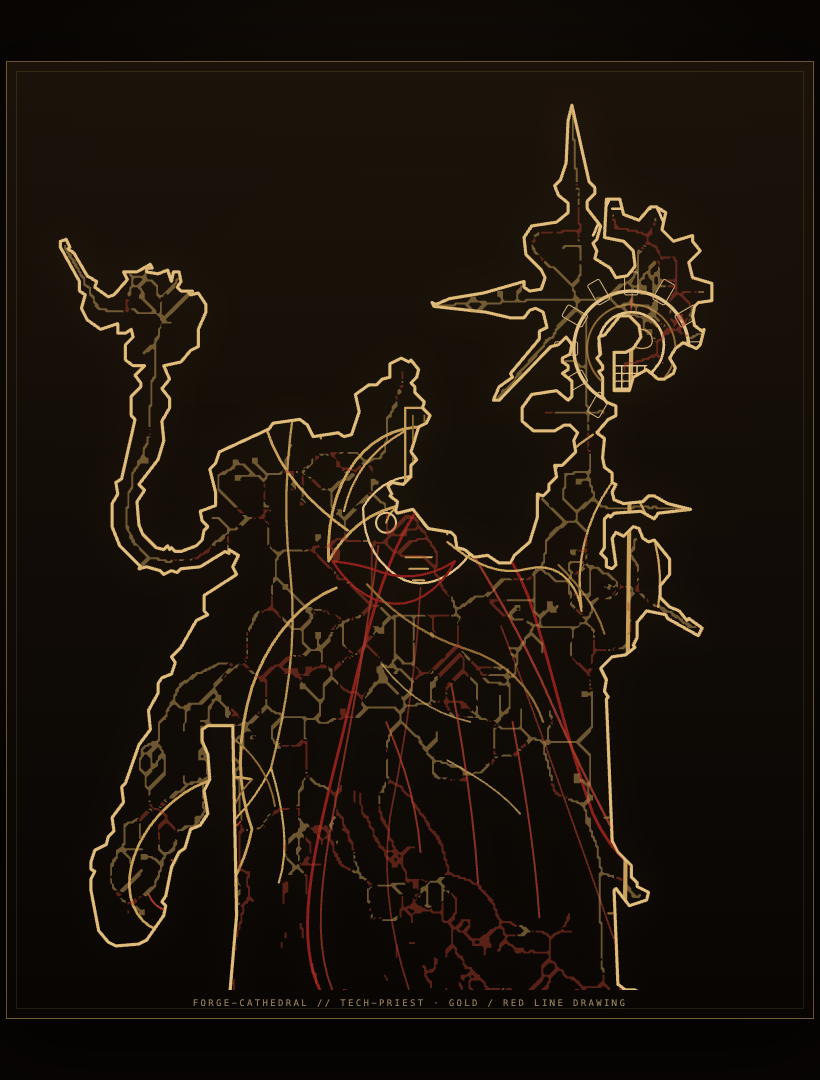
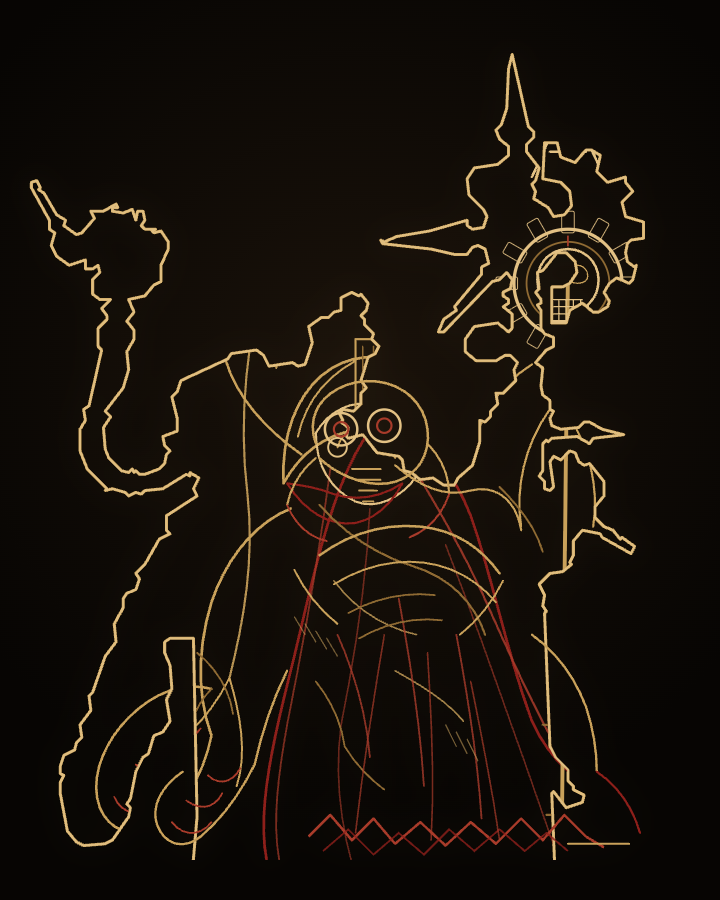
art: tech-priest as pure gold/red line work, no base (v0.7.4)

diff --git a/README.md b/README.md
@@ -1,6 +1,6 @@
-# dsh-theme-admech — 机械神教 · 铸炉圣殿（纯 A / v0.7.3）
+# dsh-theme-admech — 机械神教 · 铸炉圣殿（纯 A / v0.7.4）
 
-> **状态：v0.7.3。macOS（DSH 0.2.1-rc.2）与 Windows 11 真机均完成渲染验收；v0.7.3 机械神甫素材改为纯金色/红色线条重绘。**
+> **状态：v0.7.4。macOS（DSH 0.2.1-rc.2）与 Windows 11 真机均完成渲染验收；v0.7.4 机械神甫素材只保留金色/红色线条，不含任何填色或基座。**
 > Windows 适配细节见文末「Windows 适配（v0.7.0 · 实测）」，其中包含实测过的安装流程、失败模式与可复现的渲染审计脚本。
 > 尚未安装到你的日常桌面 profile（桌面 profile 由 Electron 独占写入，需你在「插件」页点一次安装）。
 > 图标标准 = 你提供的齿轮-骷髅：只改颜色、等比缩放，不重绘。
@@ -280,14 +280,14 @@ DSH Desktop 的“查询用量 / 充值”会挂载一个原生 Platform WebCont
 
 #
 
-## v0.7.3：机械神甫 SVG 素材 · 金色/红色线条重绘（独立，不改背景）
+## v0.7.4：机械神甫 SVG 素材 · 纯金色/红色线条（无填色、无基座）
 
 ![tech priest vector](shots/tech-priest-preview.png)
 
-- 不沿用旧图片的填色/描摹，改为**纯线条重绘**：金色外轮廓与机械线条、红色长袍与内褶线条；
-- 无照片填色、无灰度/白色块，透明底；已**去除底部模型基座**；
-- 文件：assets/tech-priest.svg（约 62KB，381×470 viewBox，可无损放大）；
-- 保留兜帽、机械臂、伺服骷髅、齿轮-骷髅权杖、长袍走势与线稿蚀刻纹理；
+- 最终结果**只包含金色/红色线条**：所有元素 fill="none"，无照片填色、无白色/灰色块、无剪影填充；
+- 无位图内嵌、无旧图描摹；底部金色底盘/基座完全移除；
+- 文件：assets/tech-priest.svg（约 21KB，381×455 viewBox，透明底，可无损放大）；
+- 保留兜帽、双镜片、机械臂、伺服骷髅、齿轮-骷髅权杖、长袍与破损下摆的线条重绘；
 - 背景仍是原来的铸炉圣殿，**没有改动背景上的机械神甫**；
 - 这是独立素材，可用于后续替换背景人物、做启动页/卡片插画或单独导出 PNG。
 
